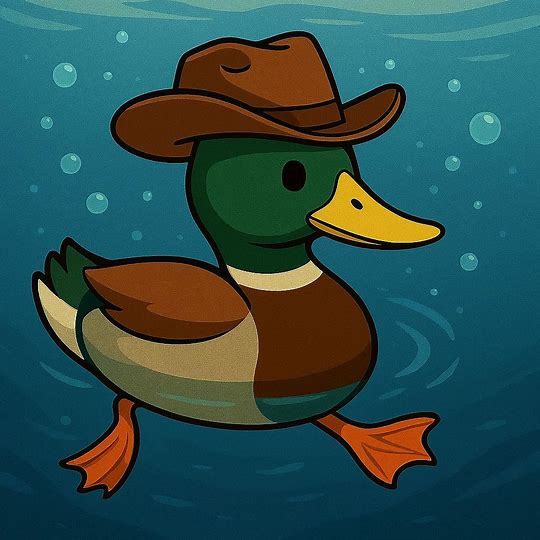
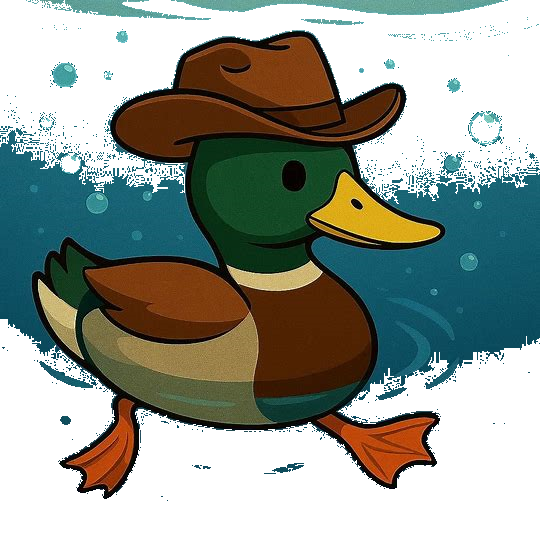
Sprite fixes: transparency, ground alignment, walk animation, hitboxes, title/win screen

diff --git a/src/scenes/GameScene.js b/src/scenes/GameScene.js
@@ -282,7 +282,7 @@ export default class GameScene extends Phaser.Scene {
       // Duck feet (duck.y) must be below the flame top to take damage.
       if (!this.invincible) {
         for (const cf of CAMPFIRES) {
-          if (Math.abs(duck.x - cf.x) < 18 && duck.y > LAND_Y - cf.h) {
+          if (Math.abs(duck.x - cf.x) < 26 && duck.y > LAND_Y - cf.h - 8) {
             this.scene.start('DeadScene'); return;
           }
         }
@@ -303,11 +303,11 @@ export default class GameScene extends Phaser.Scene {
     }
 
     // ── Collectibles ────────────────────────────────────────────────────────
-    if (!this.keyCollected && Math.abs(duck.x - KEY_X) < 16 && Math.abs(duck.y - KEY_Y) < 18) {
+    if (!this.keyCollected && Math.abs(duck.x - KEY_X) < 24 && Math.abs(duck.y - KEY_Y) < 26) {
       this.keyCollected = true; this.hasKey = true;
     }
-    if (this.hasKey && duck.x > CAGE_X - 22 && duck.x < CAGE_X + 15 &&
-        duck.y > CAGE_Y && duck.y < CAGE_Y + CAGE_H) {
+    if (this.hasKey && duck.x > CAGE_X - 30 && duck.x < CAGE_X + 23 &&
+        duck.y > CAGE_Y - 8 && duck.y < CAGE_Y + CAGE_H + 8) {
       this.scene.start('WinScene'); return;
     }
     for (const c of this.coinData) {
@@ -317,12 +317,12 @@ export default class GameScene extends Phaser.Scene {
         if (c.y > WATER_SURFACE + 20 && !duck.underwater) continue;
         if (c.y <= WATER_SURFACE + 20 && duck.y > WATER_SURFACE + 5) continue;
       }
-      if (Math.abs(duck.x - c.x) < 22 && Math.abs(duck.y - c.y) < 22) {
+      if (Math.abs(duck.x - c.x) < 30 && Math.abs(duck.y - c.y) < 30) {
         c.collected = true; this.coins++;
       }
     }
     for (const p of this.powerups) {
-      if (!p.collected && Math.abs(duck.x - p.x) < 18 && Math.abs(duck.y - p.y) < 18) {
+      if (!p.collected && Math.abs(duck.x - p.x) < 26 && Math.abs(duck.y - p.y) < 26) {
         p.collected = true;
         if (p.type === 'star')  { this.invincible = true; this.invTimer   = 360; }
         else                    { this.boosted    = true; this.boostTimer = 270; }
@@ -333,13 +333,16 @@ export default class GameScene extends Phaser.Scene {
     if (this._updateEnemies(fdt, duck, inWater)) return;
 
     // ── Draw state ───────────────────────────────────────────────────────────
+    // Priority: underwater dive → surface swim → fly → airborne → walk → stand
+    // duck.underwater is only true when fully below WATER_SURFACE + 2.
     let drawState;
-    if (duck.underwater)                              drawState = 'dive';
-    else if (inWater && duck.y >= WATER_SURFACE - 4) drawState = 'swim'; // at surface
-    else if (duck.isFlying)                           drawState = 'fly';
-    else if (!duck.onGround)                          drawState = 'stand';
-    else if (Math.abs(duck.vx) > 0.5)                drawState = 'walk';
-    else                                              drawState = 'stand';
+    if (duck.underwater)                                        drawState = 'dive'; // submerged
+    else if (inWater && !duck.isFlying
+             && duck.y >= WATER_SURFACE - 4)                   drawState = 'swim'; // on surface
+    else if (duck.isFlying)                                     drawState = 'fly';
+    else if (!duck.onGround)                                    drawState = 'stand';
+    else if (Math.abs(duck.vx) > 0.5)                          drawState = 'walk';
+    else                                                        drawState = 'stand';
 
     // Swap texture for current movement state
     const texKey = drawState === 'fly'  ? 'mallard-fly'  :
@@ -347,17 +350,25 @@ export default class GameScene extends Phaser.Scene {
                    drawState === 'dive' ? 'mallard-dive' : 'mallard-walk';
     this.mallorySprite.setTexture(texKey);
 
-    // y-offset: swim sprite pushed down so body sits on water surface;
-    //           walk bob simulates foot movement
+    // Sprite Y: no offset on ground (origin 0.5,1.0 puts feet exactly at duck.y).
+    // Swim state pushes sprite down so body sits on the water line.
     let spriteY = duck.y;
     if (drawState === 'swim') {
       spriteY += 10; // align body with water line (sprite has padding at bottom)
     } else if (drawState === 'walk') {
-      spriteY += Math.sin(duck.stepTimer * 0.3) * 2; // 2px vertical bob
+      spriteY += Math.sin(duck.stepTimer * 0.4) * 3; // subtle 3px vertical bob
     }
 
     this.mallorySprite.setPosition(duck.x, spriteY);
     this.mallorySprite.setFlipX(duck.facing < 0);
+
+    // Walk: slight body rock. Reset angle when not walking.
+    if (drawState === 'walk') {
+      this.mallorySprite.setAngle(Math.sin(duck.stepTimer * 0.4) * 4);
+    } else {
+      this.mallorySprite.setAngle(0);
+    }
+
     this.mallorySprite.setAlpha(this.invincible && Math.floor(this._tick / 4) % 2 === 0 ? 0.3 : 1.0);
 
     this._drawItems();
@@ -405,7 +416,7 @@ export default class GameScene extends Phaser.Scene {
       if (!this.invincible) {
         const dx = duck.x - e.x;
         const dy = duck.y - e.y;
-        if (Math.sqrt(dx * dx + dy * dy) < e.killR + 10) {
+        if (Math.sqrt(dx * dx + dy * dy) < e.killR + 18) {
           if (isWater && inWater)    { this.scene.start('DeadScene'); return true; }
           if (!isWater && !isAir && !inWater) { this.scene.start('DeadScene'); return true; }
           if (isAir && !inWater)     { this.scene.start('DeadScene'); return true; }

diff --git a/src/scenes/TitleScene.js b/src/scenes/TitleScene.js
@@ -10,41 +10,49 @@ export default class TitleScene extends Phaser.Scene {
   create() {
     const { width, height } = this.scale;
 
+    // Solid background prevents canvas transparency showing as gray grid
+    this.cameras.main.setBackgroundColor('#5C8AE6');
+
     // Sky gradient background
     const sky = this.add.graphics();
     sky.fillGradientStyle(0x5C8AE6, 0x5C8AE6, 0x87CEEB, 0x87CEEB, 1);
     sky.fillRect(0, 0, width, height);
 
     // Ground strip
-    const ground = this.add.graphics();
-    ground.fillStyle(0x4a7c2f).fillRect(0, height - 60, width, 60);
+    this.add.graphics()
+      .fillStyle(0x4a7c2f)
+      .fillRect(0, height - 60, width, 60);
 
-    // Title image — centered, scaled to fit nicely in upper portion of screen
-    const img = this.add.image(width / 2, height * 0.38 + 40, 'title-image').setOrigin(0.5, 0.5);
-    const maxW = width * 0.72;
-    const maxH = height * 0.52;
-    const scale = Math.min(maxW / img.width, maxH / img.height);
-    img.setScale(scale);
-
-    // Title text
-    this.add.text(width / 2, height * 0.08, 'DUCK BISON', {
+    // Title text — created first so we can measure its bottom edge
+    const titleText = this.add.text(width / 2, height * 0.06, 'DUCK BISON', {
       fontFamily: 'Arial Black, Impact, sans-serif',
       fontSize: '64px',
       color: '#f7c948',
       stroke: '#3a1a06',
       strokeThickness: 8,
-    }).setOrigin(0.5);
+    }).setOrigin(0.5, 0); // top-center origin so .y + .height = bottom edge
 
-    // START button (canvas-drawn, no HTML elements)
+    // START button geometry — defined early so image can be centred between them
     const btnX = width / 2;
-    const btnY = height * 0.75;
+    const btnY = height * 0.78;
     const btnW = 200;
     const btnH = 52;
 
+    // Vertically centre the image between title bottom and button top
+    const titleBottom = titleText.y + titleText.height;
+    const btnTop      = btnY - btnH / 2;
+    const imgCenterY  = (titleBottom + btnTop) / 2;
+    const maxW        = width  * 0.72;
+    const maxH        = btnTop - titleBottom - 16; // 8px breathing room each side
+
+    const img = this.add.image(width / 2, imgCenterY, 'title-image').setOrigin(0.5, 0.5);
+    img.setScale(Math.min(maxW / img.width, maxH / img.height));
+
+    // START button (canvas-drawn, no HTML elements)
     const btn = this.add.graphics();
     this._drawBtn(btn, btnX, btnY, btnW, btnH, false);
 
-    const btnText = this.add.text(btnX, btnY, 'START', {
+    this.add.text(btnX, btnY, 'START', {
       fontFamily: 'Arial Black, sans-serif',
       fontSize: '28px',
       color: '#3a1a06',
@@ -52,7 +60,6 @@ export default class TitleScene extends Phaser.Scene {
 
     // Hit zone
     const hitZone = this.add.zone(btnX, btnY, btnW, btnH).setInteractive({ useHandCursor: true });
-
     hitZone.on('pointerover', () => this._drawBtn(btn, btnX, btnY, btnW, btnH, true));
     hitZone.on('pointerout',  () => this._drawBtn(btn, btnX, btnY, btnW, btnH, false));
     hitZone.on('pointerdown', () => this.scene.start('GameScene'));
